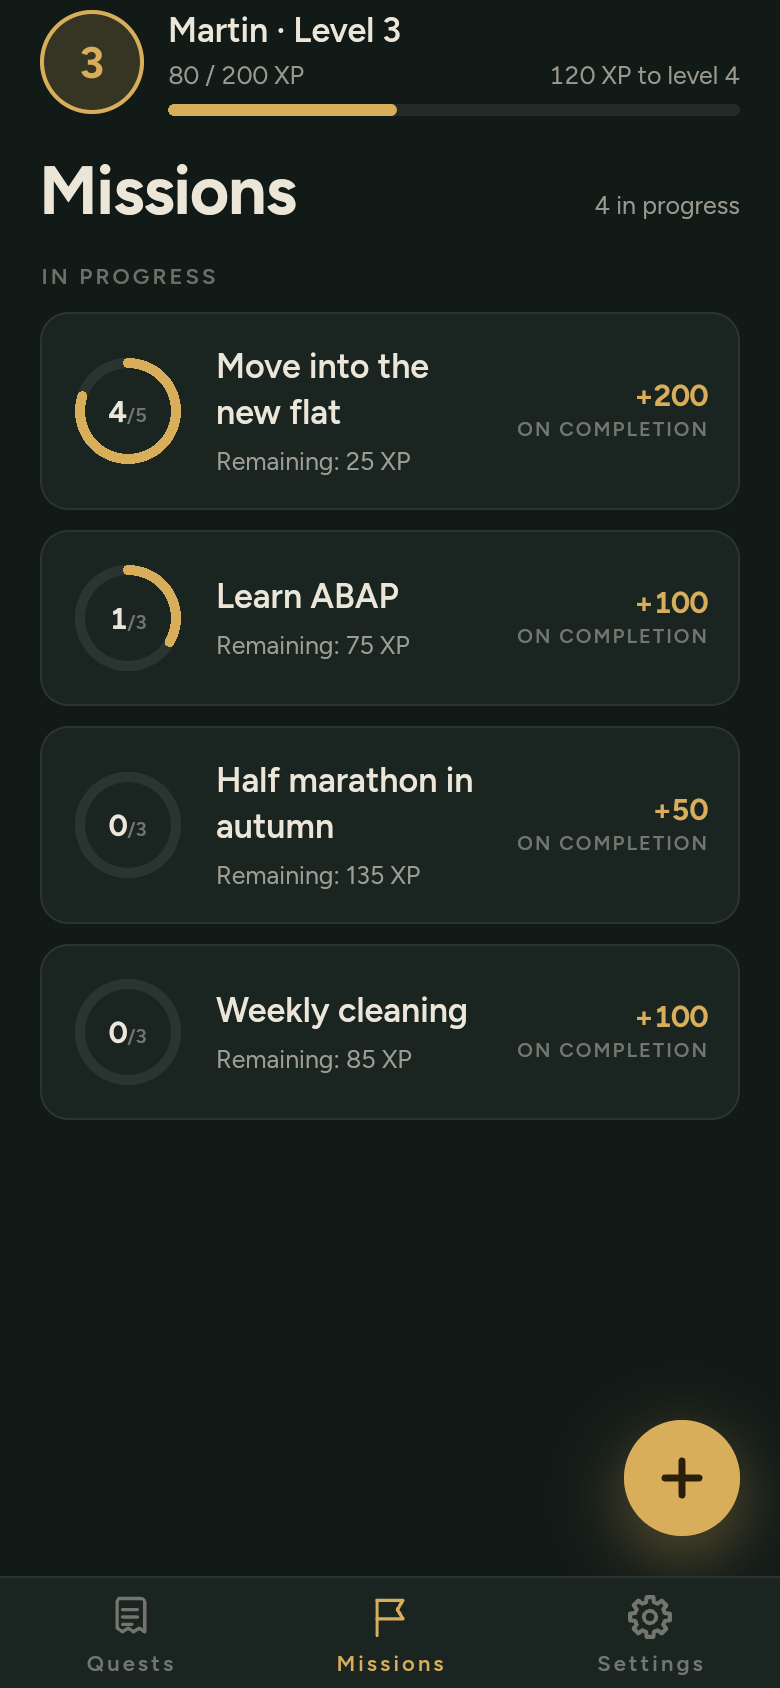
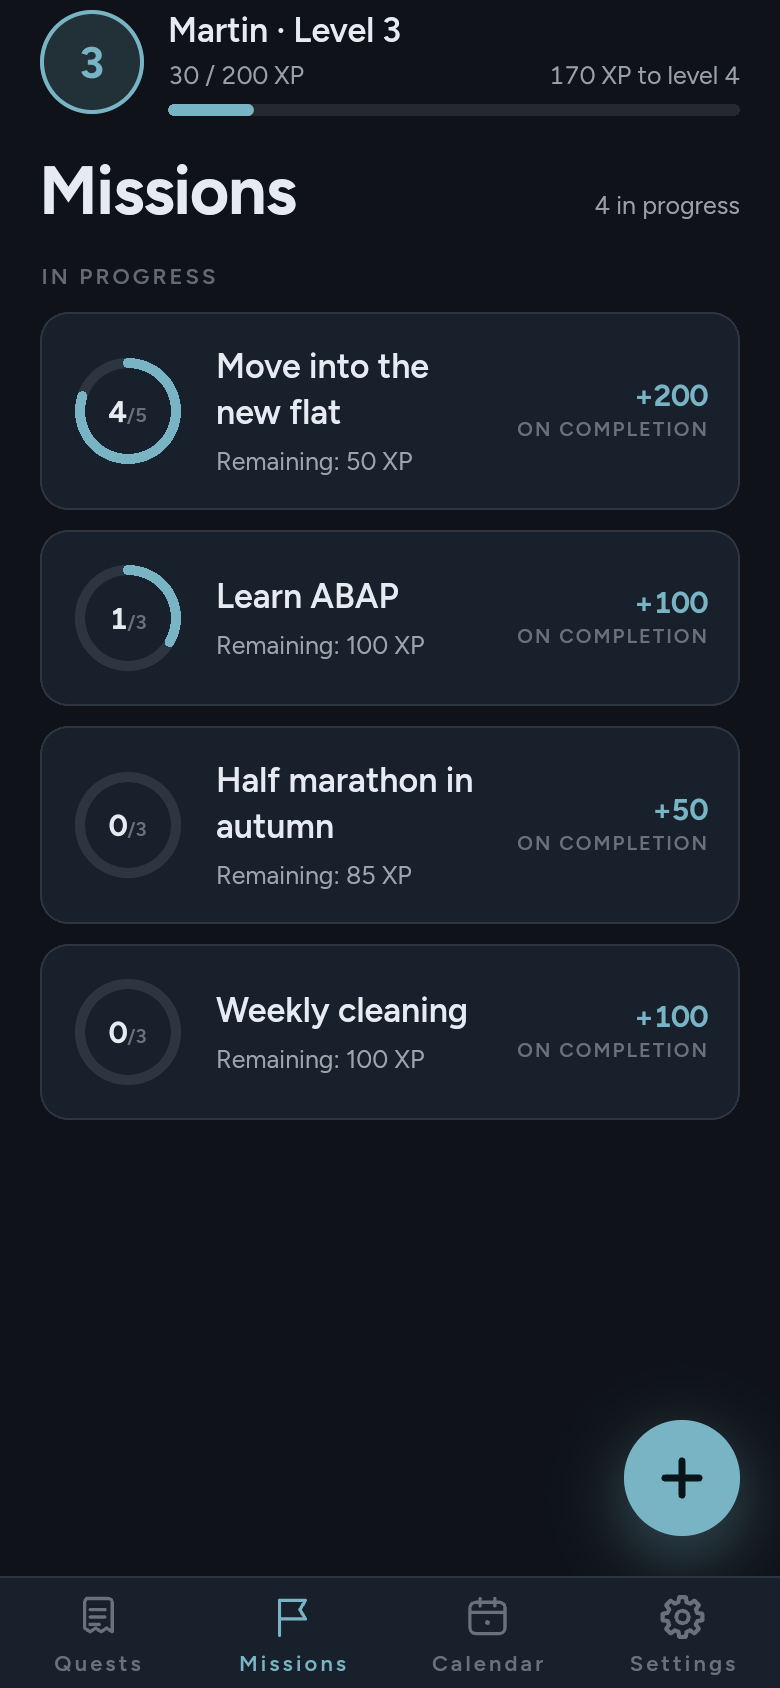
docs: retake the README screenshots in the blue palette

diff --git a/README.md b/README.md
@@ -45,9 +45,9 @@ The board day rolls over at 04:00, so a late evening still belongs to the same d
 
 ## 📸 Screenshots
 
-<a href="screenshots/01-board.png"><img src="screenshots/01-board.png" width="31%" alt="The Board with posted quests"></a>&nbsp;&nbsp;&nbsp;<a href="screenshots/02-missions.png"><img src="screenshots/02-missions.png" width="31%" alt="Missions with progress rings"></a>&nbsp;&nbsp;&nbsp;<a href="screenshots/03-new-quest.png"><img src="screenshots/03-new-quest.png" width="31%" alt="The new quest sheet"></a>
+<a href="screenshots/01-board.png"><img src="screenshots/01-board.png" width="31%" alt="The Board with today's events and quests"></a>&nbsp;&nbsp;&nbsp;<a href="screenshots/02-missions.png"><img src="screenshots/02-missions.png" width="31%" alt="Missions with progress rings"></a>&nbsp;&nbsp;&nbsp;<a href="screenshots/03-new-quest.png"><img src="screenshots/03-new-quest.png" width="31%" alt="The new quest sheet"></a>
 
-<a href="screenshots/04-calendar.png"><img src="screenshots/04-calendar.png" width="31%" alt="The calendar month with coloured event types"></a>&nbsp;&nbsp;&nbsp;<a href="screenshots/05-calendar-day.png"><img src="screenshots/05-calendar-day.png" width="31%" alt="The day sheet"></a>&nbsp;&nbsp;&nbsp;<a href="screenshots/06-board-events.png"><img src="screenshots/06-board-events.png" width="31%" alt="The Board with events to do today"></a>
+<a href="screenshots/04-calendar.png"><img src="screenshots/04-calendar.png" width="31%" alt="The calendar month with coloured event types"></a>&nbsp;&nbsp;&nbsp;<a href="screenshots/05-calendar-day.png"><img src="screenshots/05-calendar-day.png" width="31%" alt="The day sheet"></a>
 
 ## 🔧 Prerequisites
 
